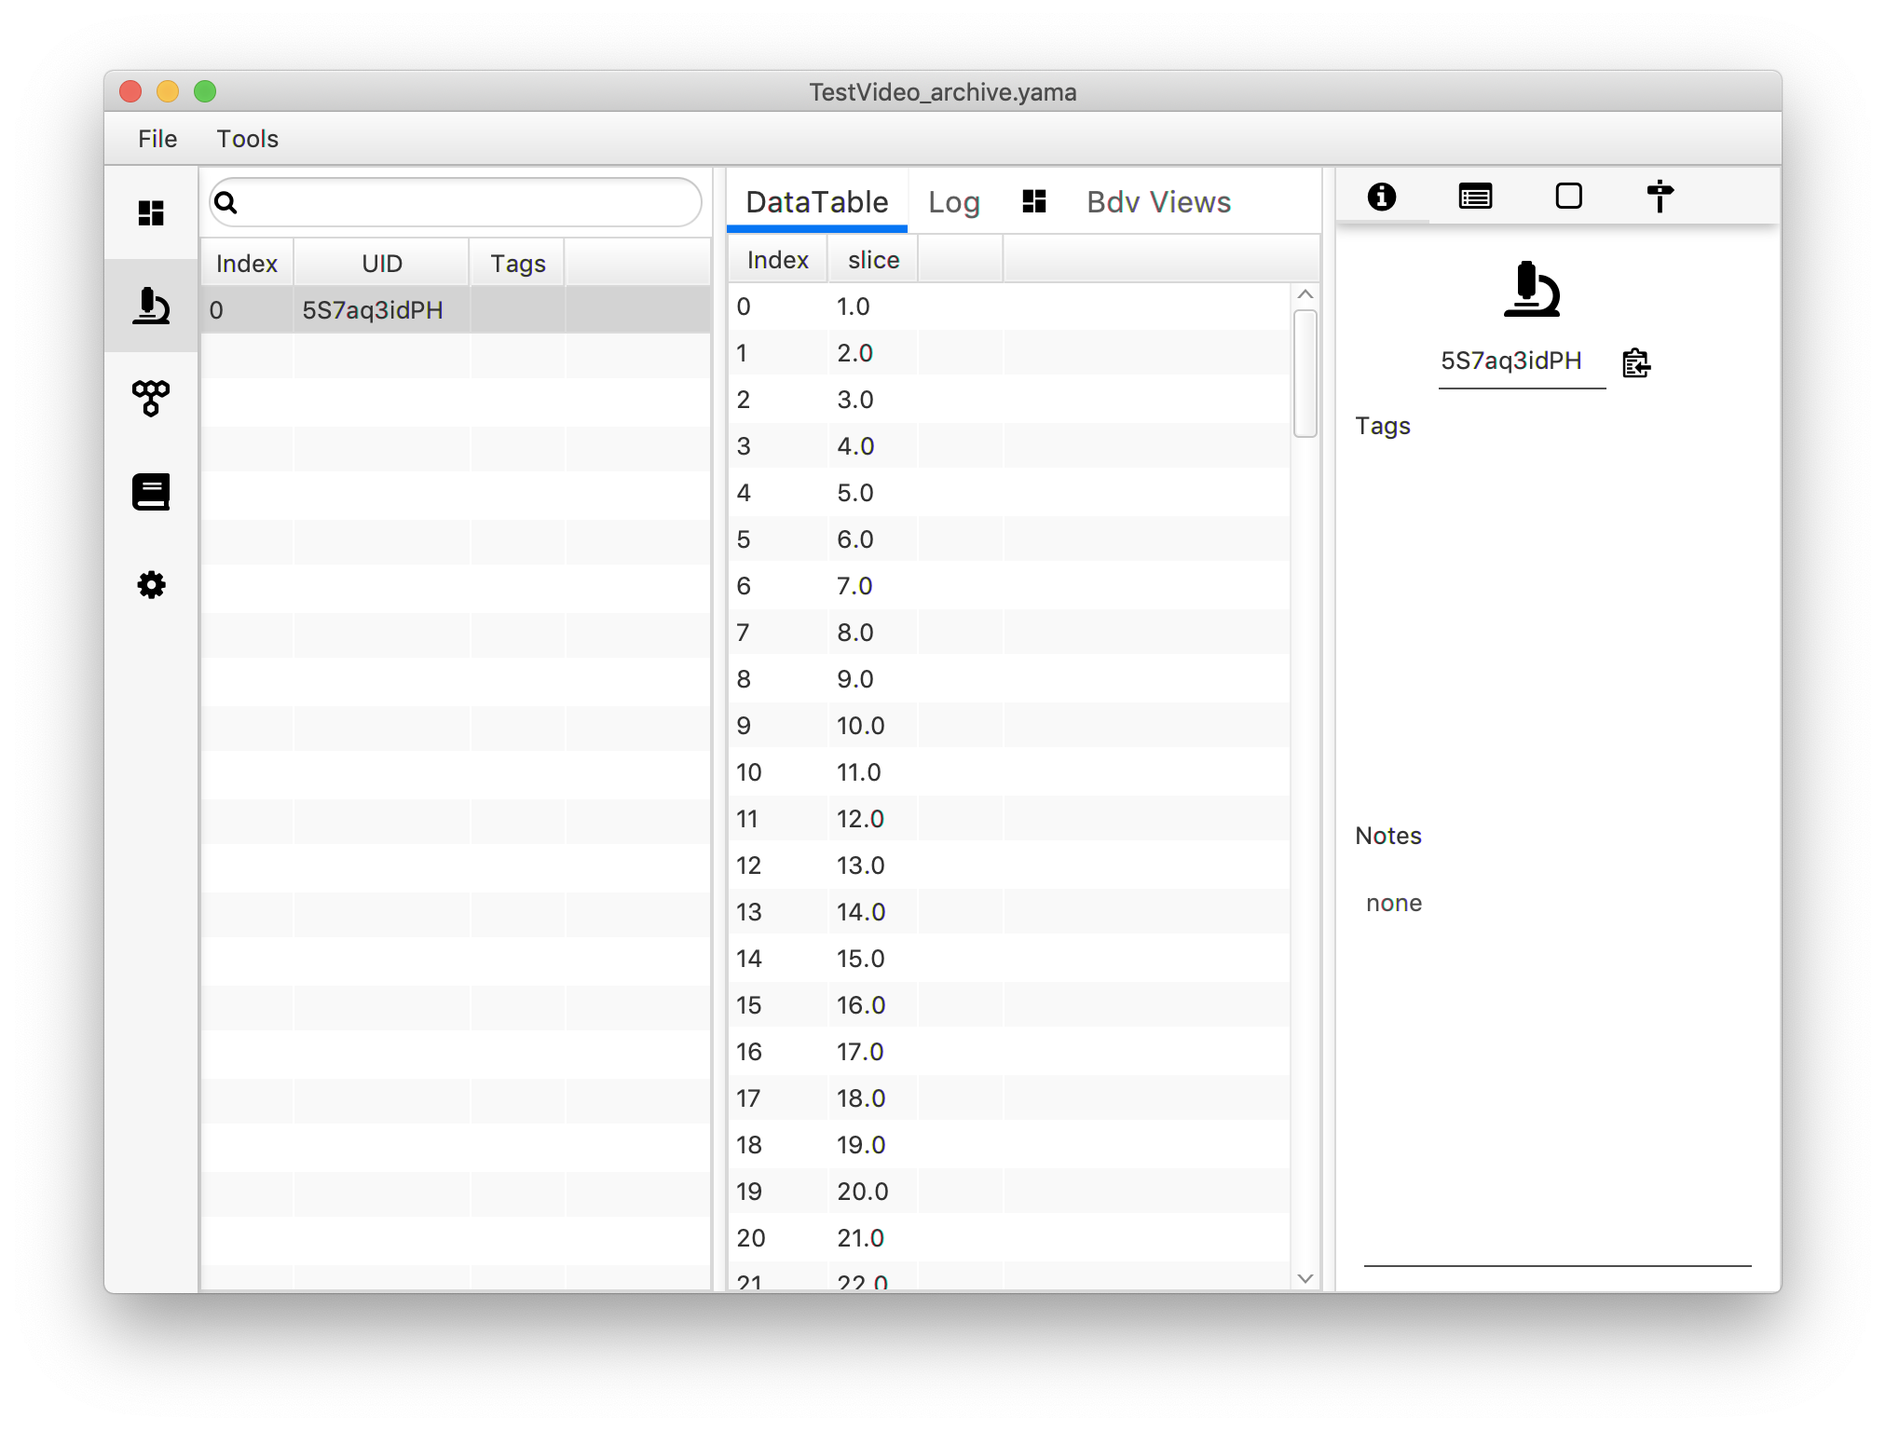
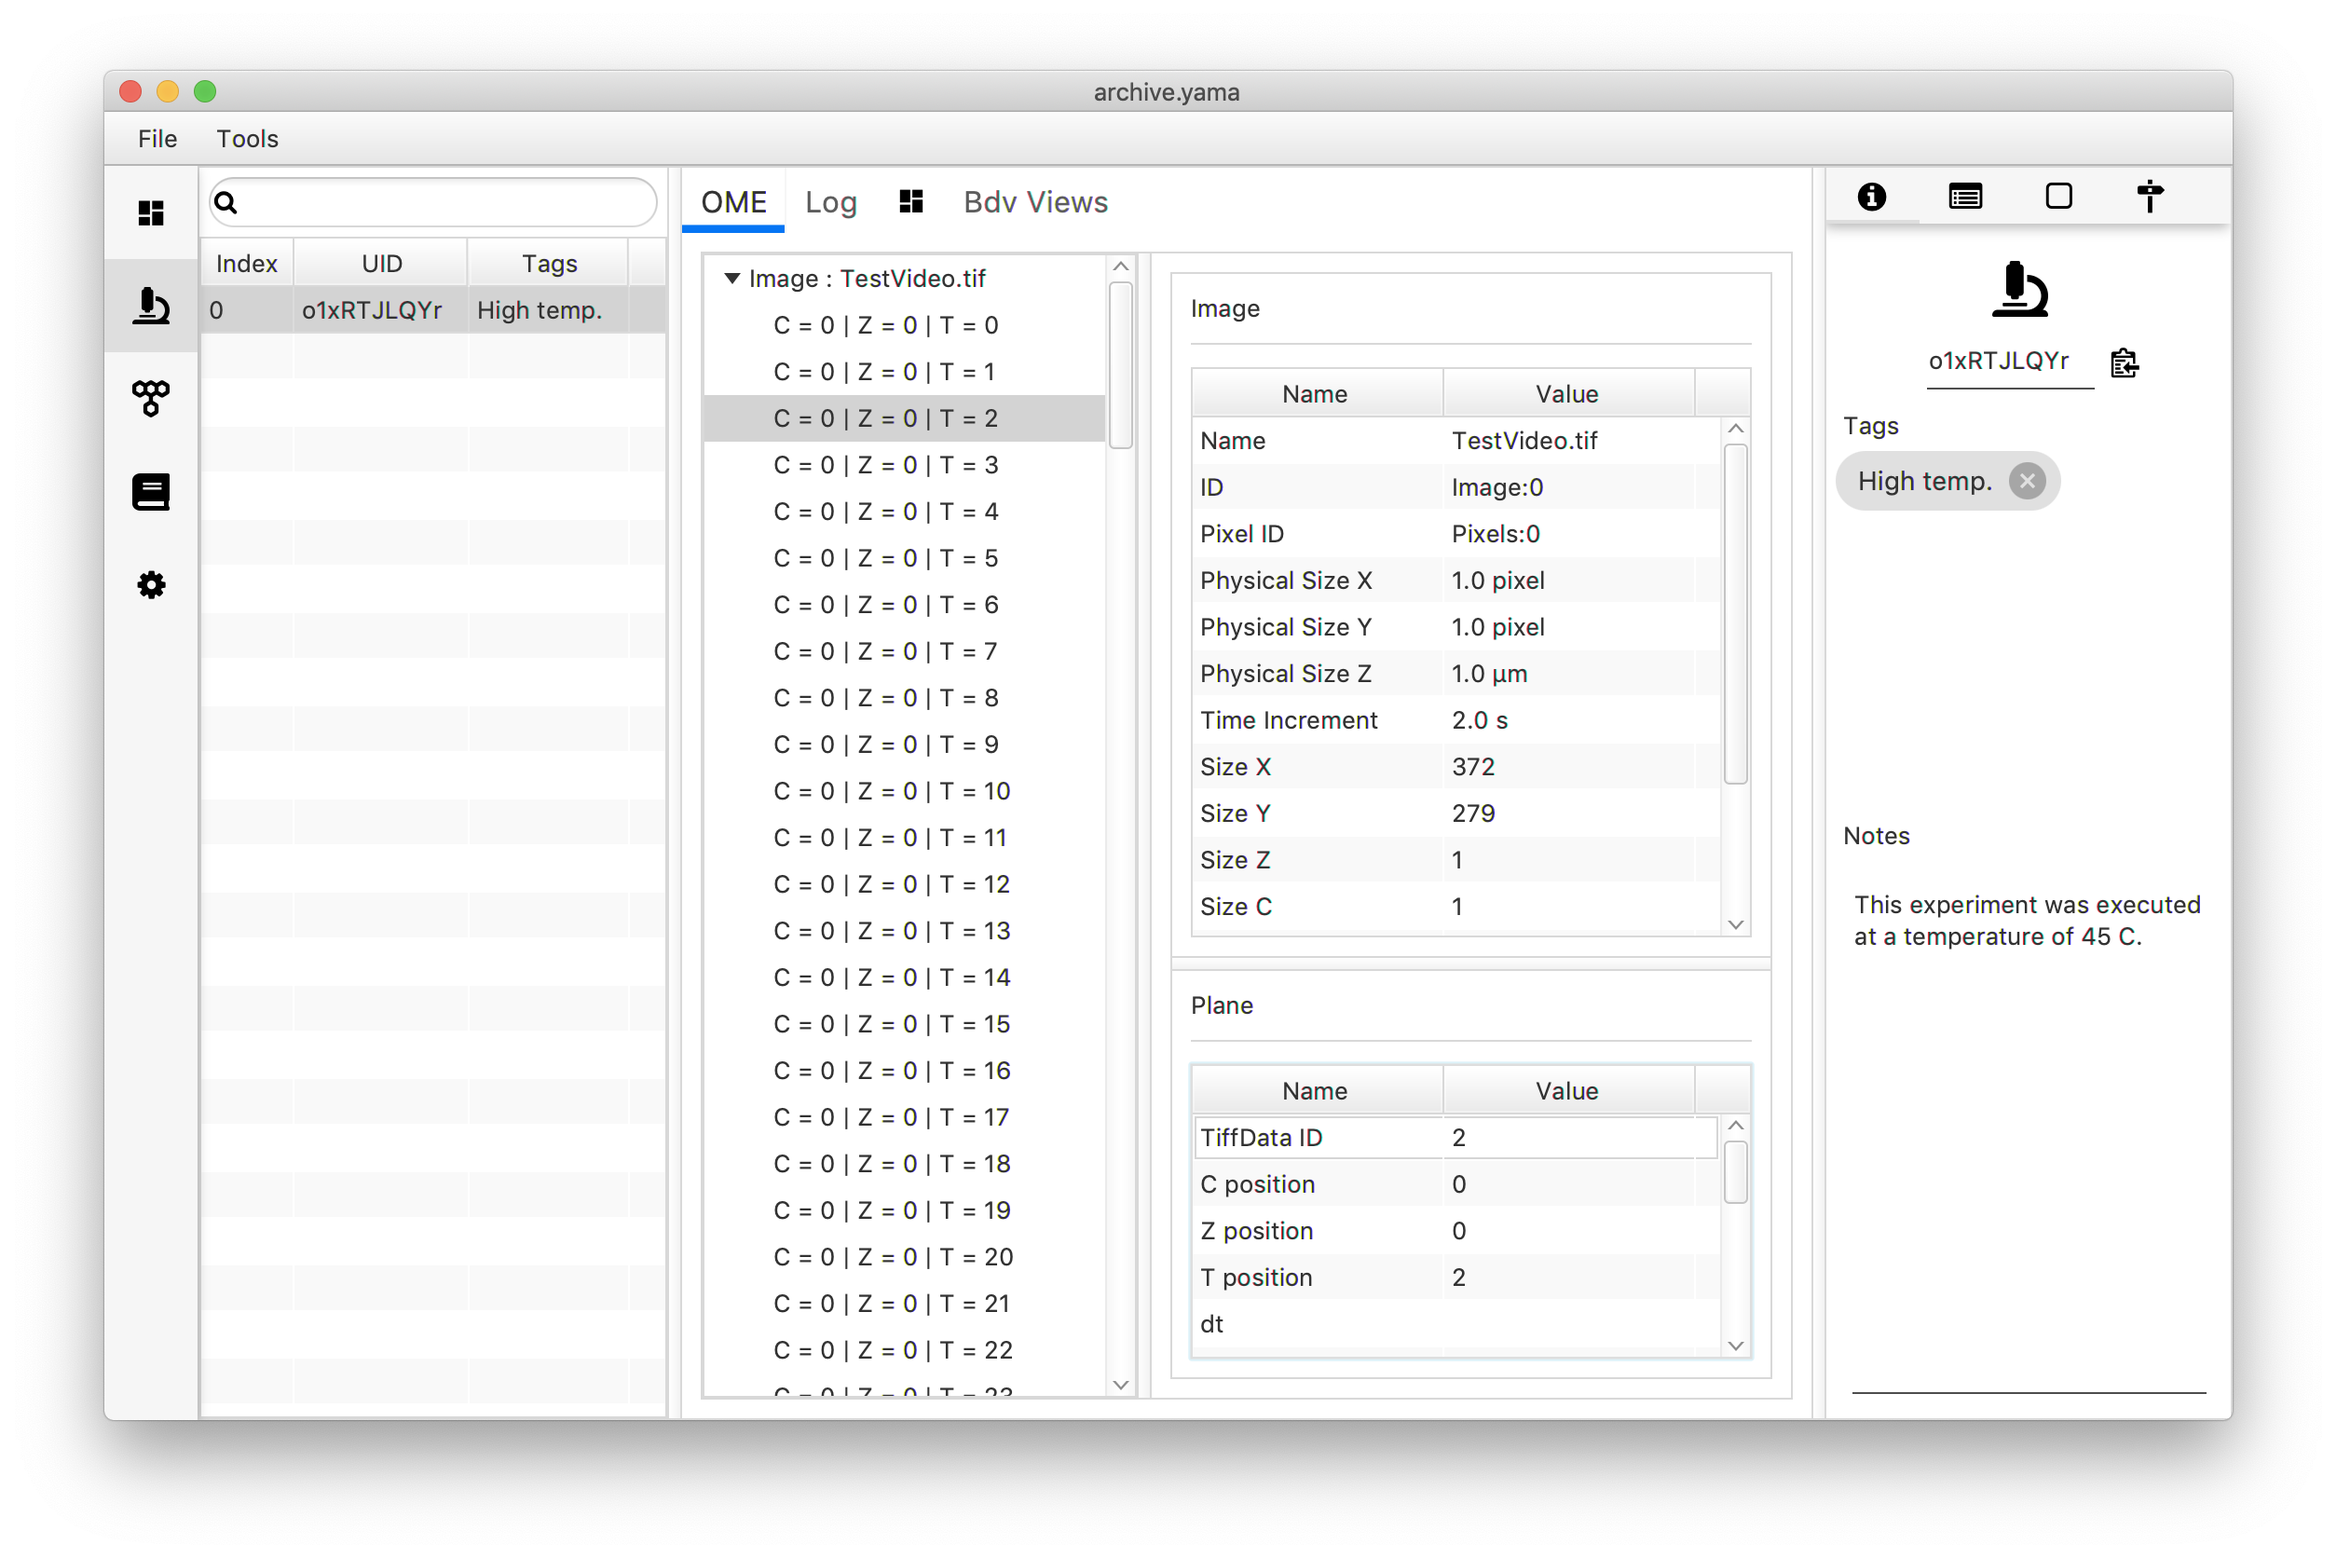
OME update docs

Changed region(s): [[0.0311, 0.0312, 0.9649, 0.9375], [0.5292, 0.25, 0.5914, 0.2812], [0.4358, 0.375, 0.4669, 0.4062]]

diff --git a/_layouts/marsrover.html b/_layouts/marsrover.html
@@ -7,8 +7,8 @@ submenu:
   text: Toolbar
 - page: RoverDashboard
   text: Dashboard
-- page: Experiments
-  text: Experiments
+- page: Metadata
+  text: Metadata
 - page: Molecules
   text: Molecules
 - page: Comments

diff --git a/docs/MarsRover/ScriptableWidgets.md b/docs/MarsRover/ScriptableWidgets.md
@@ -7,9 +7,9 @@ permalink: /docs/MarsRover/ScriptableWidgets/index.html
 
 <img align='center' src='{{site.baseurl}}/docs/img/Rover/img6.png' width='800' />
 
-The scriptable widgets are available on **Rover** Dashboard and also in the 'Experiments' and 'Molecules' tabs. They allow for a rapid evaluation of the archive, metadata, and molecule features. All scriptable widgets leverage the scripting capabilities of ImageJ to provide limitless customisability. Scripts can be written in Python or Groovy. In both cases, chart scripts are provided with a single input that depends on the dashboard.
+The scriptable widgets are available on **Rover** Dashboard and also in the 'Metadata' and 'Molecules' tabs. They allow for a rapid evaluation of the archive, metadata, and molecule features. All scriptable widgets leverage the scripting capabilities of ImageJ to provide limitless customisability. Scripts can be written in Python or Groovy. In both cases, chart scripts are provided with a single input that depends on the dashboard.
 
-At the highest level, the global dashboard receives a reference to the entire [MoleculeArchive](https://duderstadt-lab.github.io/mars-core/javadoc/de/mpg/biochem/mars/molecule/MoleculeArchive.html) as an input. This provides complete access to all molecules, metadata, and properties, so global relationships can be rapidly evaluated. Dashboards are also provided within the 'Experiments' and 'Molecules' tabs. These receive [MarsMetadata](https://duderstadt-lab.github.io/mars-core/javadoc/de/mpg/biochem/mars/molecule/MarsMetadata.html) and [Molecule](https://duderstadt-lab.github.io/mars-core/javadoc/de/mpg/biochem/mars/molecule/Molecule.html) references for detailed inspection of individual records. Once a suitable collection of widgets has been setup, simply reloading after selecting different molecule and metadata records will update all charts in reference to the current record.
+At the highest level, the global dashboard receives a reference to the entire [Molecule Archive](https://duderstadt-lab.github.io/mars-core/javadoc/de/mpg/biochem/mars/molecule/MoleculeArchive.html) as an input. This provides complete access to all molecules, metadata, and properties, so global relationships can be rapidly evaluated. Dashboards are also provided within the 'Metadata' and 'Molecules' tabs. These receive [Metadata](https://duderstadt-lab.github.io/mars-core/javadoc/de/mpg/biochem/mars/molecule/MarsMetadata.html) and [Molecule](https://duderstadt-lab.github.io/mars-core/javadoc/de/mpg/biochem/mars/molecule/Molecule.html) references for detailed inspection of individual records. Once a suitable collection of widgets has been setup, simply reloading after selecting different molecule and metadata records will update all charts in reference to the current record.
 
 ### General setup of all Widgets
 There are five types of widgets available in **Mars**:

diff --git a/docs/MarsRover/Experiments.md b/docs/MarsRover/Experiments.md
@@ -1,35 +1,35 @@
 ---
 layout: marsrover
-title: Experiments
-permalink: /docs/MarsRover/Experiments/index.html
+title: Metadata
+permalink: /docs/MarsRover/Metadata/index.html
 ---
 
-The Experiments tab has three main sections:
+The Metadata tab has three main sections:
 
 
-**1. List of experiments in the Archive.**
+**1. List of Metadata entries in the Archive.**
 
 | :------------- | :------------- |
-| Index       | Index of the experiment.       |
-| UID       | UID of the experiment.       |
-| Tags       | Tags given to the experiment.       |
+| Index       | Index of the Metadata entry.       |
+| UID       | UID of the Metadata entry.       |
+| Tags       | Tags given to the Metadata entry.       |
 
 **2. Data section.**
 
 | :------------- | :------------- |
-| DataTable      | Global information about the experiment like time and slice number.      |
+| OME      | All Metadata records are listed here. Select the image from the plane on the left to show all 'Image' and 'Plane' information in the middle two segments.      |
 | Log       | Log of parameters set in image processing and tracking.       |
-| Scriptable widgets      | [Scriptable Widgets](https://duderstadt-lab.github.io/mars-docs/docs/MarsRover/ScriptableWidgets/) to visualise data per experiment.       |
+| Scriptable widgets      | [Scriptable Widgets](https://duderstadt-lab.github.io/mars-docs/docs/MarsRover/ScriptableWidgets/) to visualise data per Metadata entry.       |
 | Bdv Views       | BigDataViewer parameters to be used for video visualisations. See [tutorial](https://duderstadt-lab.github.io/mars-docs/tutorials/workingwithmars/bdv/).       |
 
-**3. Notes, parameters, and information valid for all molecules within the experiment.**
+**3. Notes, parameters, and information valid for all molecules within the metadata entry.**
 
 | :------------- | :------------- |
 | Information       | UID (copy to clipboard with icon), Tags and Notes.      |
-| Parameters       | List of experiment-wide parameters.       |
+| Parameters       | List of Metadata record-wide parameters.       |
 | Regions       | List of assigned regions (f.e. to denote the change of a parameter at a certain time point in the experiment).       |
 | Positions       | List of globally assigned positions.      |
 
-Regions and Positions are globally defined in the Experiments tab and if enabled will show up in the plots made under the 'molecules' tab where relevant.
+Regions and Positions are globally defined in the Metadata tab and if enabled will show up in the plots made under the 'molecules' tab where relevant.
 
 <img align='center' src='{{site.baseurl}}/docs/img/Rover/img7.png' width='600' />

diff --git a/docs/MarsRover.md b/docs/MarsRover.md
@@ -11,7 +11,7 @@ Accompanying the **Mars** software is the GUI: **Mars Rover**. This user interfa
 | :-------------- | :------------- | :------------ |
 | <img align='center' src='{{site.baseurl}}/docs/img/Icons/img0.png' width='100' />|[Toolbar](https://duderstadt-lab.github.io/mars-docs/docs/MarsRover/Toolbar/) | Save, edit and delete. |
 | <img align='center' src='{{site.baseurl}}/docs/img/Icons/img1.png' width='50' />|[Rover dashboard](https://duderstadt-lab.github.io/mars-docs/docs/MarsRover/RoverDashboard/)  | Main features of the dataset and [scriptable widgets](https://duderstadt-lab.github.io/mars-docs/docs/MarsRover/ScriptableWidgets/). |
-| <img align='center' src='{{site.baseurl}}/docs/img/Icons/img2.png' width='50' />|[Experiments](https://duderstadt-lab.github.io/mars-docs/docs/MarsRover/Experiments/)    | Metadata and data analysis log. |
+| <img align='center' src='{{site.baseurl}}/docs/img/Icons/img2.png' width='50' />|[Experiments](https://duderstadt-lab.github.io/mars-docs/docs/MarsRover/Metadata/)    | Metadata and data analysis log. |
 | <img align='center' src='{{site.baseurl}}/docs/img/Icons/img3.png' width='50' />|[Molecules](https://duderstadt-lab.github.io/mars-docs/docs/MarsRover/Molecules/)     | UIDs with data tables and plot options. |
 | <img align='center' src='{{site.baseurl}}/docs/img/Icons/img4.png' width='50' />|[Comments](https://duderstadt-lab.github.io/mars-docs/docs/MarsRover/Comments/)  | Build-in text editor to annotate data sets. |
 | <img align='center' src='{{site.baseurl}}/docs/img/Icons/img5.png' width='50' />|[Settings](https://duderstadt-lab.github.io/mars-docs/docs/MarsRover/Settings/)      | Archive specific settings. |

diff --git a/docs/index.md b/docs/index.md
@@ -74,7 +74,7 @@ Accompanying the **Mars** software is the GUI: **Mars Rover**. This user interfa
 | :-------------- | :------------- | :------------ |
 | <img align='center' src='{{site.baseurl}}/docs/img/Icons/img0.png' width='100' />|[Toolbar](./MarsRover/Toolbar) | Save, edit and delete. |
 | <img align='center' src='{{site.baseurl}}/docs/img/Icons/img1.png' width='50' />|[Rover dashboard](./MarsRover/RoverDashboard)  | Main features of the dataset and [scriptable widgets](https://duderstadt-lab.github.io/mars-docs/docs/MarsRover/ScriptableWidgets/). |
-| <img align='center' src='{{site.baseurl}}/docs/img/Icons/img2.png' width='50' />|[Experiments](./MarsRover/Experiments)    | Metadata and data analysis log. |
+| <img align='center' src='{{site.baseurl}}/docs/img/Icons/img2.png' width='50' />|[Experiments](./MarsRover/Metadata)    | Metadata and data analysis log. |
 | <img align='center' src='{{site.baseurl}}/docs/img/Icons/img3.png' width='50' />|[Molecules](./MarsRover/Molecules)     | UIDs with data tables and plot options. |
 | <img align='center' src='{{site.baseurl}}/docs/img/Icons/img4.png' width='50' />|[Comments](./MarsRover/Comments)  | Build-in text editor to annotate data sets. |
 | <img align='center' src='{{site.baseurl}}/docs/img/Icons/img5.png' width='50' />|[Settings](./MarsRover/Settings)      | Archive specific settings. |
